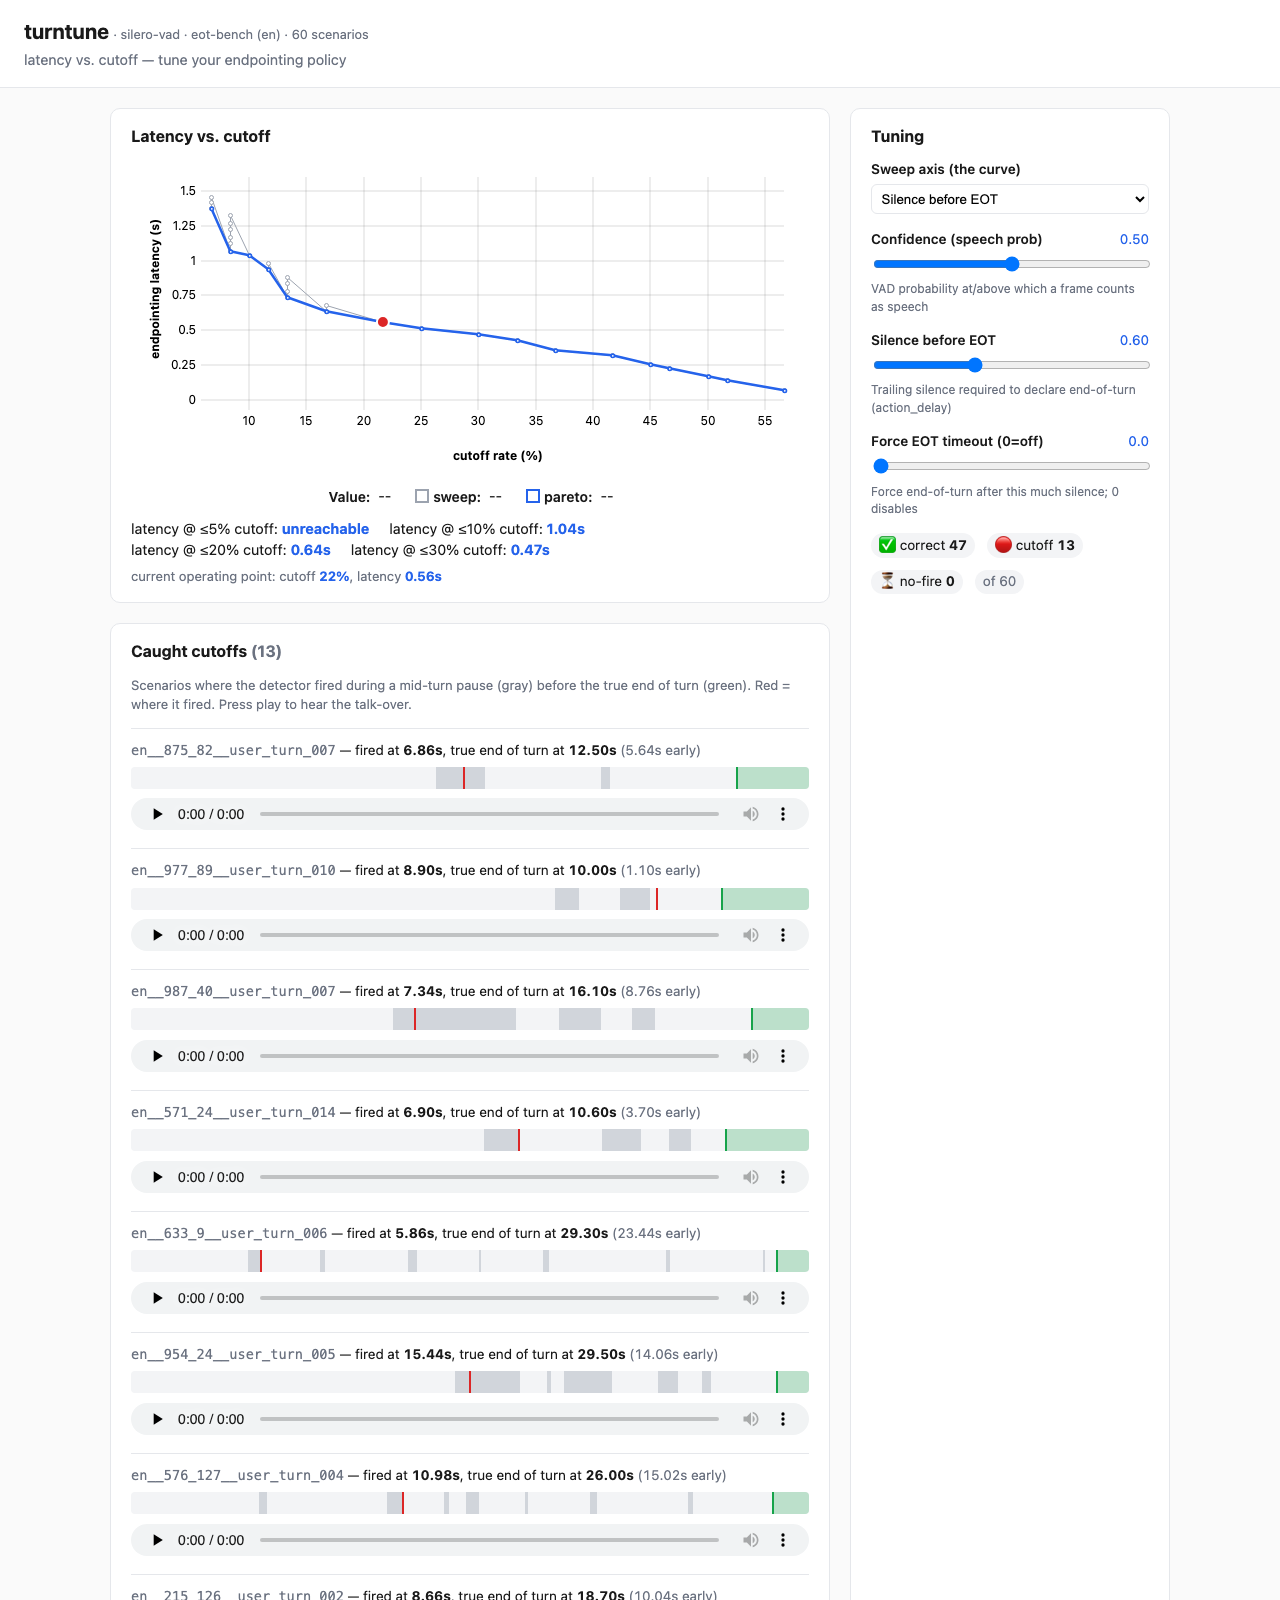
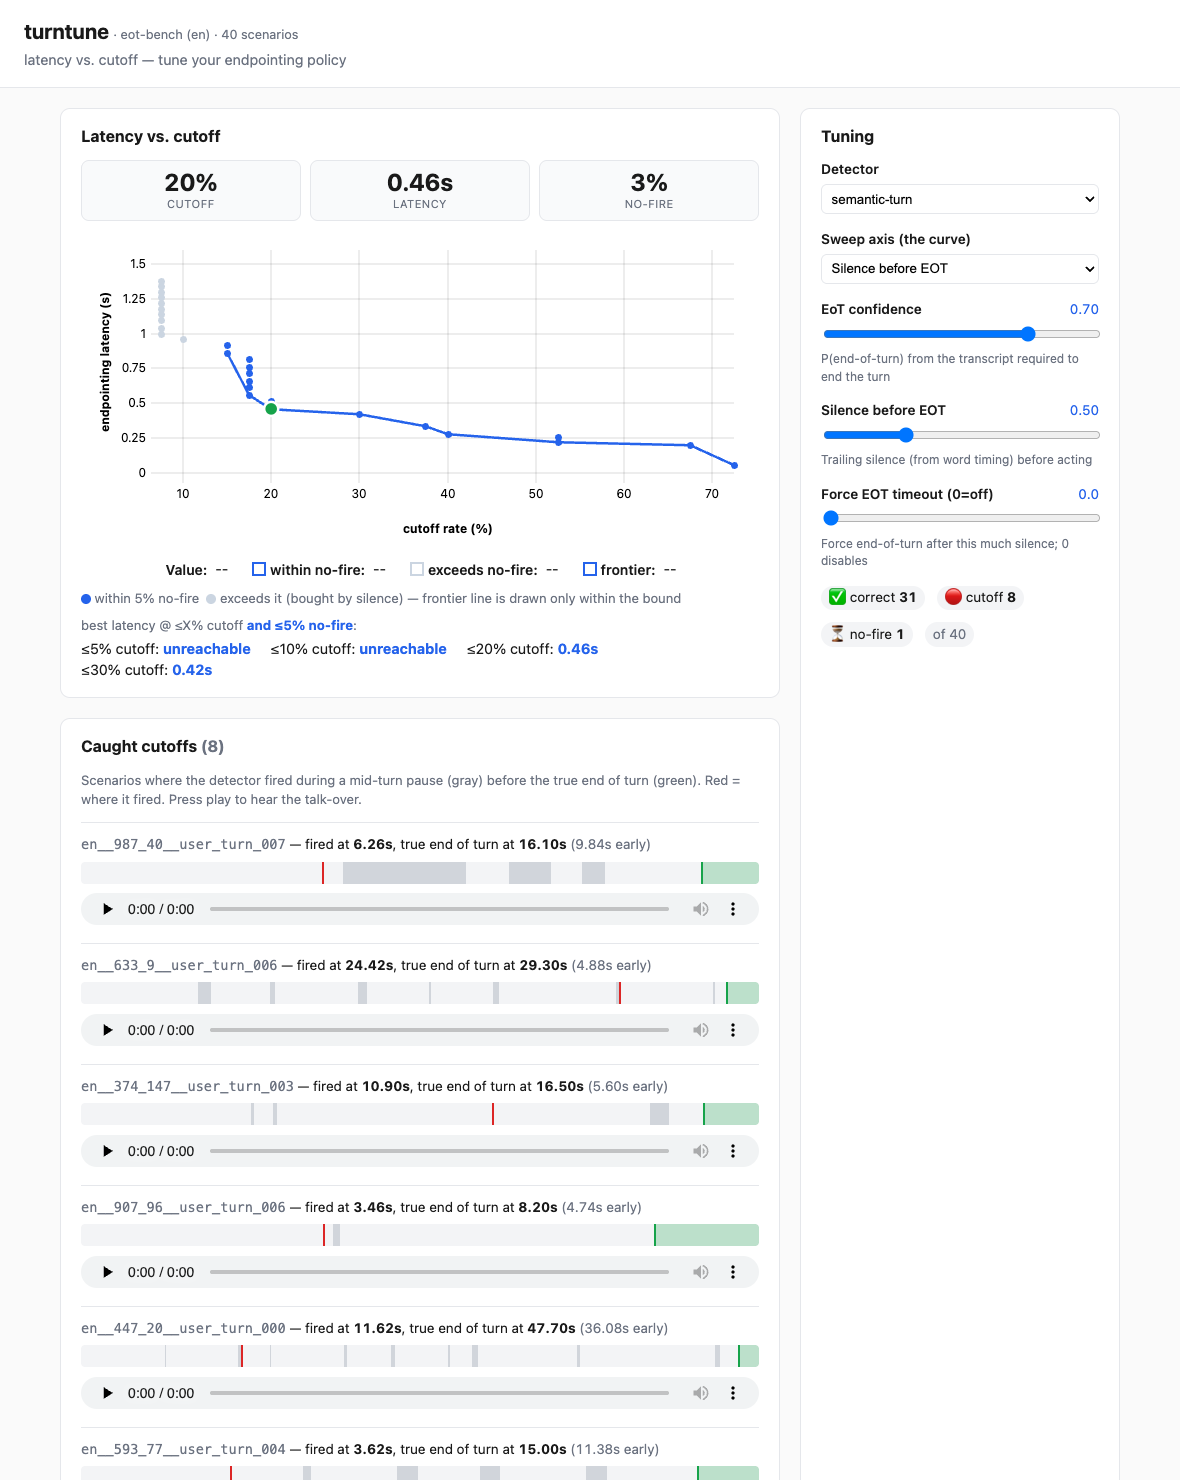
docs: semantic detector, first-class no-fire, and the honest comparison
- Document the semantic-turn detector (Qwen2.5-0.5B-Instruct fine-tune,
  anyreach-ai/semantic-turn-taking, Apache-2.0 weights; turntune[semantic] extra; default
  Silero path stays torch-free) and the LiveKit-license reason it isn't used.
- Define no-fire as a first-class metric alongside cutoff and latency, and explain the
  joint cutoff+no-fire headline that keeps the comparison ungameable.
- Add the honest comparison: at <=5% no-fire the semantic model's apparent ultra-low-cutoff
  wins disappear (can't reach <=10% cutoff where Silero can, 1.06s); its real, modest win is
  the moderate-cutoff / lower-latency regime (0.46s vs 0.62s at <=20%). All figures from a
  clean 40-clip full 3-knob re-run; no-fire is N=40, rounded half-up (footnoted).
- Document the now-applied timeout knob (bounds no-fire) and --detector multi-load.
- Replace the hero GIF with the live silero<->semantic comparison (no-fire-aware curve,
  three readouts) and refresh the UI screenshot. Quickstart/first-run promise unchanged.

diff --git a/README.md b/README.md
@@ -6,13 +6,14 @@
 ![Python](https://img.shields.io/badge/python-3.10+-blue.svg)
 [![CI](https://github.com/Kayvan-Zahiri/turntune/actions/workflows/ci.yml/badge.svg)](https://github.com/Kayvan-Zahiri/turntune/actions/workflows/ci.yml)
 
-![turntune in action — dragging the silence slider moves the operating point along the latency-vs-cutoff curve while the caught-cutoff list updates live](docs/img/hero.gif)
+![turntune comparing the silence-based Silero VAD against a transcript-based semantic detector — switching detectors live, with cutoff, latency and no-fire shown together and a no-fire-aware curve](docs/img/hero.gif)
 
-> Silero VAD over 40 eot-bench conversations. Drag **Silence before EOT** and the whole
-> curve, the red operating-point marker (here sliding from 60% cutoff toward 30%), the
-> live counts, and the caught-cutoff list all recompute in milliseconds. Each cutoff has
-> a timeline — gray = mid-turn pause, green = true end of turn, red = where it fired —
-> and audio you can play to hear the talk-over.
+> Two detectors over 40 eot-bench conversations. Switch from **silero-vad** (silence) to
+> **semantic-turn** (transcript) and tune live: cutoff, latency, and **no-fire** update
+> together as equal readouts. On the curve, points within the no-fire budget are blue and
+> points whose low cutoff is *bought by silence* (the agent never answering) are greyed —
+> so a tempting low-cutoff setting can't hide its cost. Here the semantic model settles on
+> a real operating point: **20% cutoff at 0.46s with 3% no-fire**.
 
 ---
 
@@ -31,12 +32,14 @@ you change the endpointing policy.
 
 ## What you get
 
-- 📈 **The latency-vs-cutoff Pareto curve** for your detector — and the headline
-  number, _"latency at ≤X% cutoff."_
+- 📈 **The latency-vs-cutoff Pareto curve** for your detector — with **no-fire** held to a
+  budget, so a low cutoff can't be bought by the agent simply never answering.
 - 🔊 **A playable list of the conversations it cut off** — hear the talk-over for
   yourself instead of guessing.
-- 🎚️ **Live tuning knobs** — drag the silence / confidence / timeout sliders and
-  watch the curve and the failure list update instantly.
+- 🎚️ **Live tuning knobs** — drag the confidence / silence / timeout sliders and watch the
+  curve, the three readouts (**cutoff / latency / no-fire**), and the failure list update.
+- 🔀 **Two detectors to compare** — silence-based Silero VAD (default) and a transcript-based
+  semantic end-of-turn model — switchable live in the UI.
 
 ## 30-second quickstart
 
@@ -59,22 +62,22 @@ No GPU, no API keys, no account. Everything runs locally.
 
 ## Reading the results
 
-![Reading the turntune UI: the tradeoff curve, the tuning knobs, and the caught-cutoff list](docs/img/screenshot.png)
+![Reading the turntune UI: the three readouts (cutoff / latency / no-fire), the no-fire-aware tradeoff curve, the detector selector and tuning sliders, and the caught-cutoff list](docs/img/screenshot.png)
 
-Three things are on screen:
+What's on screen (here, the semantic detector at **20% cutoff / 0.46s latency / 3% no-fire** —
+that's 1 of 40 turns; see the [comparison](#silence-vs-semantics--an-honest-comparison) note on rounding):
 
-- **The curve (top-left).** Every point is one policy setting: x = how often the
-  detector cut someone off, y = how much latency it added. **Lower-left is better** —
-  few cutoffs *and* low latency. The blue line is the Pareto frontier (the best you can
-  do); the red dot is your **current operating point**. The headline beneath it —
-  _"latency @ ≤10% cutoff: 1.04s"_ — is the lowest latency you can buy while staying
-  under that cutoff budget.
-- **The knobs (top-right).** Drag a slider and the curve, the operating point, the
-  counts, and the failure list all recompute live. Find the operating point you can
-  live with, then read off the threshold.
-- **The caught cutoffs (below).** Every conversation the detector talked over, under the
-  current policy. Each timeline shows the mid-turn pauses (gray), the true end of turn
-  (green), and where the detector fired (red) — with an audio player so you can *hear*
+- **Three readouts, equal weight (top).** Cutoff, latency, **and no-fire** — the share of turns
+  where the detector *never* takes the floor (the agent hangs in silence). No-fire turns red when
+  it exceeds the budget, so you can't read a low cutoff without seeing what it cost.
+- **The curve.** Each point is one policy setting: x = cutoff rate, y = latency, **lower-left is
+  better**. Points within the no-fire budget are **blue**; points whose low cutoff is *bought by
+  silence* are **greyed**, and the frontier line is drawn only within the budget. The headline
+  below states the bound explicitly: *best latency @ ≤X% cutoff **and ≤5% no-fire***.
+- **The knobs (right).** Pick the **detector** (`silero-vad` / `semantic-turn`), choose the sweep
+  axis, and drag the sliders — the curve, readouts, and failure list all recompute live.
+- **The caught cutoffs (below).** Every conversation the detector talked over: a timeline (gray =
+  mid-turn pause, green = true end of turn, red = where it fired) with audio you can *play* to hear
   the talk-over.
 
 ## How it works
@@ -96,6 +99,34 @@ you drag a slider. (Audio is streamed in 20 ms frames; decision times come from 
 frame index, not the wall clock, so the fast sweep gives the same answer as real-time
 streaming.)
 
+The same split powers both shipped detectors through one `Detector` seam: Silero VAD's
+`extract()` emits a per-frame speech probability; the semantic detector's emits an
+end-of-turn probability from the transcript — both feed the identical harness and metrics.
+
+## Detectors
+
+Two detectors ship, both behind the same seam, both scored by the identical harness and
+metrics so the comparison is apples-to-apples:
+
+- **`silero-vad` (default).** Silence-based endpointing.
+  [Silero VAD](https://github.com/snakers4/silero-vad) (MIT, ~2 MB ONNX) gives a speech
+  probability per 20 ms frame; the policy endpoints after enough trailing silence. Runs on
+  `onnxruntime` — **no torch** — so the default first-run stays light.
+- **`semantic-turn` (optional).** Content-based endpointing. A fine-tune of
+  Qwen2.5-0.5B-Instruct ([anyreach-ai/semantic-turn-taking](https://huggingface.co/anyreach-ai/semantic-turn-taking),
+  Apache-2.0 weights) reads the growing **transcript** and predicts whether the turn is
+  complete, so it can keep listening through a mid-utterance pause that pure silence would
+  cut off. Install the extra and load both to compare live:
+
+  ```bash
+  pip install 'turntune[semantic]'      # adds transformers + torch; downloads a ~1 GB model
+  turntune serve --detector silero-vad,semantic-turn
+  ```
+
+  The heavy deps load lazily, so installing the extra leaves the default Silero path
+  unchanged and torch-free. (We use the openly-licensed anyreach model rather than LiveKit's
+  turn-detector, whose model license restricts use to the LiveKit Agents framework.)
+
 ## The tuning knobs
 
 These are the same knobs LiveKit's eot-bench exposes, so a policy setting maps between
@@ -106,7 +137,11 @@ the two (the eot-bench name is in parentheses). The arrows show what happens as 
 |---|---|---|---|
 | `speech_threshold` (`threshold`), 0.1–0.9 | VAD probability above which a frame counts as speech | ↑ (more audio read as silence → endpoints sooner) | ↓ |
 | `min_silence_s` (`action_delay`), 0.1–1.5 — **primary sweep axis** | trailing silence required before declaring end-of-turn | ↓ (waits out mid-turn pauses) | ↑ |
-| `timeout_s` (`timeout`), optional | force end-of-turn after this much silence (bounds dead air; mainly a backstop) | – | caps worst case |
+| `timeout_s` (`timeout`), optional | force end-of-turn after this much silence — **now applied**; converts a would-be no-fire into a late fire | – | **bounds no-fire** (at some latency/cutoff cost) |
+
+The table shows the Silero knobs; the **semantic** detector swaps `speech_threshold` for
+`eot_threshold` (end-of-turn confidence read from the transcript) and shares `min_silence_s`
+and `timeout_s`. Sliders are generated from whichever detector is selected.
 
 ## How the metrics are defined
 
@@ -116,17 +151,51 @@ the two (the eot-bench name is in parentheses). The arrows show what happens as 
 - **Latency:** how long *after* the true end of turn the detector took to fire,
   measured on the audio timeline (conversational dead air) — not compute time. A model
   that waits 600 ms to be sure still shows 600 ms of latency.
-- **Pareto frontier:** the settings where you can't lower one without raising the
-  other. The summary reports the best latency at each cutoff budget (e.g. ≤10%).
+- **No-fire (missed endpoint):** a turn where end-of-turn is *never* declared within the
+  audio — the agent never takes the floor and the conversation stalls in silence. A no-fire is
+  a failure, **not a smaller one than a cutoff**.
+- **All three are reported together, and the headline bounds both cutoff and no-fire** —
+  *best latency @ ≤X% cutoff **and ≤5% no-fire*** — so a policy can't lower its cutoff rate just
+  by refusing to fire. The Pareto frontier is the non-dominated lower-left envelope under that
+  bound.
 
 Ground truth comes straight from eot-bench: the **final** silence in each clip is the
 true end of turn; every **earlier** silence is a mid-turn hold. Full definitions in
 [`docs/metrics.md`](./docs/metrics.md).
 
+## Silence vs. semantics — an honest comparison
+
+Both detectors over the same 40 English eot-bench clips, swept over the full three-knob policy
+(confidence × silence × timeout), scored identically. Because a low cutoff can be **bought by
+silence**, the headline bounds no-fire to ≤5% — the best latency reachable at each cutoff budget
+*and* ≤5% no-fire:
+
+| cutoff budget (with ≤5% no-fire) | `silero-vad` | `semantic-turn` |
+|---|---|---|
+| ≤ 5% cutoff | unreachable | unreachable |
+| ≤ 10% cutoff | **1.06s** (10% cut, 5% no-fire) | **unreachable** |
+| ≤ 20% cutoff | 0.62s (18% cut, 0% no-fire) | **0.46s** (20% cut, 3% no-fire) |
+| ≤ 30% cutoff | 0.52s (30% cut, 0% no-fire) | **0.42s** (30% cut, 3% no-fire) |
+
+**The honest read.** *Without* the no-fire bound the semantic model looks dramatically better — it
+appears to reach 5% cutoff at 1.02s and 10% at 0.87s. But those points sit at **15% no-fire**: the
+agent silently never answers on ~6 of 40 turns. Once no-fire is bounded to ≤5%, those wins
+disappear — the semantic model **can't reach ≤10% cutoff at all**, where Silero can (1.06s). Its
+**genuine, modest advantage is the moderate-cutoff / lower-latency regime**: ~0.46s vs 0.62s at
+≤20% cutoff, ~0.42s vs 0.52s at ≤30% cutoff, both within the no-fire budget. Content-based
+endpointing buys you **fewer cutoffs at low latency in the middle of the curve — not ultra-low
+cutoffs for free**.
+
+> No-fire and cutoff percentages are over **N = 40 clips and rounded half-up**, so a displayed
+> **3% no-fire = 1 of 40 turns** (2.5%, rounded up). The in-app headline reflects the current
+> knob settings (a 1-D slice along the chosen axis), so it can differ from this full-sweep
+> frontier by a knob step.
+
 ## Adding your own detector
 
-`turntune` has two pluggable seams. To add a detector, implement the `Detector`
-protocol (`extract` + `decide`) and register it. See
+`turntune` has two pluggable seams. To add a detector, implement the `Detector` protocol
+(`extract` + `decide`) and register it — the audio-only `silero-vad` and the transcript-based
+`semantic-turn` are worked examples of each shape. See
 [`examples/custom_detector.py`](./examples/custom_detector.py) and
 [`CONTRIBUTING.md`](./CONTRIBUTING.md).
 
@@ -144,10 +213,11 @@ turntune run      # headless: print the curve + operating points
 turntune sweep    # headless: write the full sweep to JSON (--out sweep.json)
 ```
 
-Common flags (any subcommand): `--detector silero-vad`, `--dataset eot-bench|fixtures`,
-`--language en`, `--limit 100`, `--sweep-axis min_silence_s`. `serve` also takes
-`--port 8000`, `--open` (open a browser), and `--realtime` (stream at mic pace — demo
-fidelity; off for sweeps).
+Common flags (any subcommand): `--detector silero-vad` (or a comma-separated list like
+`silero-vad,semantic-turn` to load several and switch in the UI — the semantic one needs
+`pip install 'turntune[semantic]'`), `--dataset eot-bench|fixtures`, `--language en`,
+`--limit 100`, `--sweep-axis min_silence_s`. `serve` also takes `--port 8000`, `--open`
+(open a browser), and `--realtime` (stream at mic pace — demo fidelity; off for sweeps).
 
 The runtime cache (downloaded model, eot-bench subset, per-frame signals) lives in
 `.turntune_cache/`. Wipe it with `rm -rf .turntune_cache`.
@@ -167,7 +237,9 @@ This project's **code is Apache-2.0** (see [`LICENSE`](./LICENSE)). The eot-benc
 scenarios are **downloaded at runtime from Hugging Face and are not vendored** here;
 they belong to LiveKit and are licensed **CC-BY-4.0** — attribution required; see the
 [dataset card](https://huggingface.co/datasets/livekit/eot-bench-data). Built on
-[Silero VAD](https://github.com/snakers4/silero-vad) (MIT) and
+[Silero VAD](https://github.com/snakers4/silero-vad) (MIT), the
+[semantic turn-taking model](https://huggingface.co/anyreach-ai/semantic-turn-taking)
+(Apache-2.0; downloaded only when you install the `[semantic]` extra), and
 [LiveKit eot-bench](https://github.com/livekit/eot-bench) (Apache-2.0).
 
 ## Contributing & troubleshooting